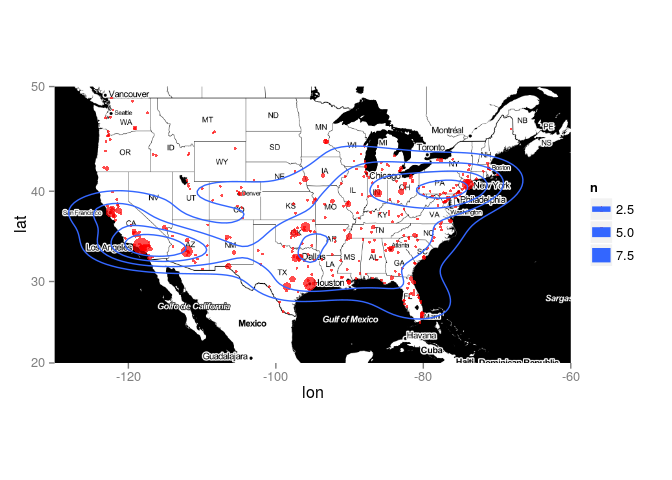
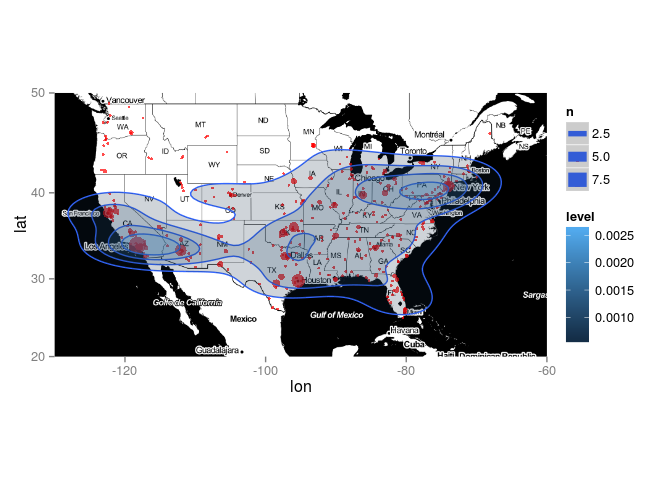
Fix Forgotten Comment

Changed region(s): [[0.0312, 0.1562, 0.9688, 0.8438], [0.0312, 0.5625, 0.0938, 0.5938], [0.0312, 0.375, 0.0625, 0.4062]]

diff --git a/lesson/5-case_studies/README.md b/lesson/5-case_studies/README.md
@@ -141,8 +141,9 @@ ggmap(usmap) +
 
 ![](README_files/figure-markdown_github/unnamed-chunk-9-1.png)
 
+...and shade them according to level.
+
 ``` r
-# ...and shade them according to level.
 ggmap(usmap) +
   geom_point(data = killed,
              aes(x = lon, y = lat, size = ..n..),
@@ -158,7 +159,7 @@ ggmap(usmap) +
                alpha = 0.2)
 ```
 
-![](README_files/figure-markdown_github/unnamed-chunk-9-2.png)
+![](README_files/figure-markdown_github/unnamed-chunk-10-1.png)
 
 For further analysis we recode the `armed` variable into 4 categories: NA, No, Yes - Firearm, Yes - Other. This is a small function doing just that.
 
@@ -194,7 +195,7 @@ ggmap(usmap) +
   guides(fill = FALSE, size = FALSE)
 ```
 
-![](README_files/figure-markdown_github/unnamed-chunk-11-1.png)
+![](README_files/figure-markdown_github/unnamed-chunk-12-1.png)
 
 The problem with these density maps is that they don't adjust for different populations sizes in the different regions and therefore just show the geographical population-distribution in the United States. A strategy to show the number of killed standardized by population size is to calculate population-specific event-proportions and show the result as a shaded map region. In order to do this we need the US population by state and geographic information about the borders of the US state (a shapefile). This is a dataset of the 2014 US population by state.
 
@@ -272,4 +273,4 @@ ggmap(usmap) +
   scale_size(name = "Cases of\nPeople Killed", range = c(2, 10))
 ```
 
-![](README_files/figure-markdown_github/unnamed-chunk-16-1.png)
+![](README_files/figure-markdown_github/unnamed-chunk-17-1.png)
